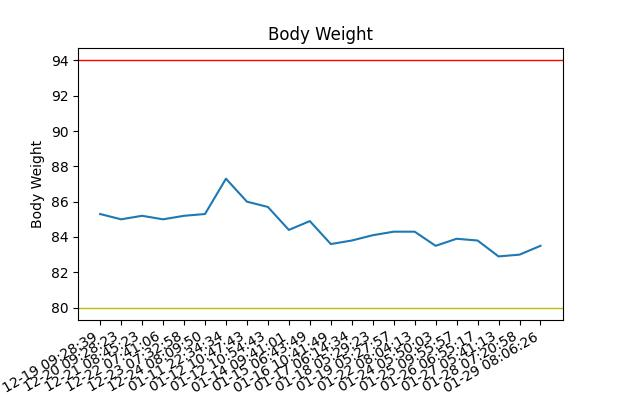
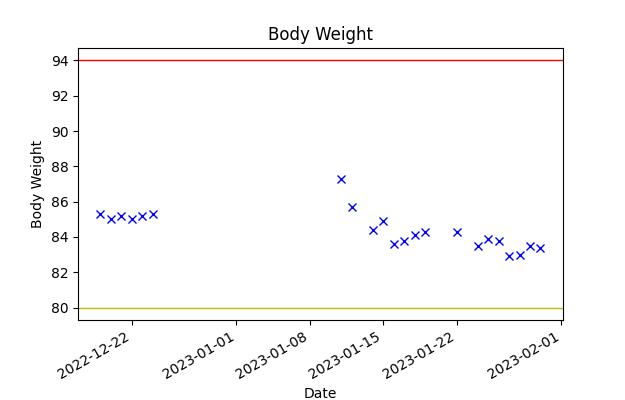
Cleaned up the graphing and other bits and pieces.

diff --git a/body_weight.py b/body_weight.py
@@ -4,6 +4,7 @@ import time
 from datetime import datetime
 import pathlib
 from PIL import Image, ImageTk
+import matplotlib.dates as dates
 
 # importing the required module
 import matplotlib
@@ -35,7 +36,7 @@ class WeightHistoryPlotter:
 
         # Build X/Y data
         for record in body_weight_history:
-            x_data.append(record[1][5:19])
+            x_data.append(datetime.strptime(record[1][:10], '%Y-%m-%d').date())
             y_data.append(float(record[3]))
 
         # Trim to the max history
@@ -50,12 +51,16 @@ class WeightHistoryPlotter:
         plt.axhline(y=start_weight, linewidth=1, color='r')
         plt.axhline(y=target_weight, linewidth=1, color='y')
 
-        ax.plot(x_data, y_data)
-        #bar_graph = ax.bar(x_data, y_data)
-        #ax.bar_label(bar_graph)
+        ax.plot(x_data, y_data, 'bx')
 
-        # rotate and align the tick labels so they look better
+        #xfmt = dates.DateFormatter('%d-%m-%y')
+        #ax.xaxis.set_major_formatter(xfmt)
+
+        # ax.locator_params(axis='x', nbins=2)
+
+        # rotate and align the tick labels so they look bette
         fig.autofmt_xdate()
+
 
         # naming the x axis
         matplotlib.pyplot.xlabel('Date')

diff --git a/history.py b/history.py
@@ -58,8 +58,8 @@ class CalorieHistoryPlotter:
         x = numpy.arange(len(x_data))  # the label locations
         #print(x)
 
-        bar_graph1 = ax.bar(x - width/2, y_consumed_data, width, label='Consumed')
-        bar_graph2 = ax.bar(x + width/2, y_expended_data, width, label='Expended')
+        bar_graph1 = ax.bar(x - width/2, y_consumed_data, width, label='kCal In')
+        bar_graph2 = ax.bar(x + width/2, y_expended_data, width, label='kCal Out')
         ax.bar_label(bar_graph1, rotation='vertical', padding = 3)
         ax.bar_label(bar_graph2, rotation='vertical', padding = 3)
 
